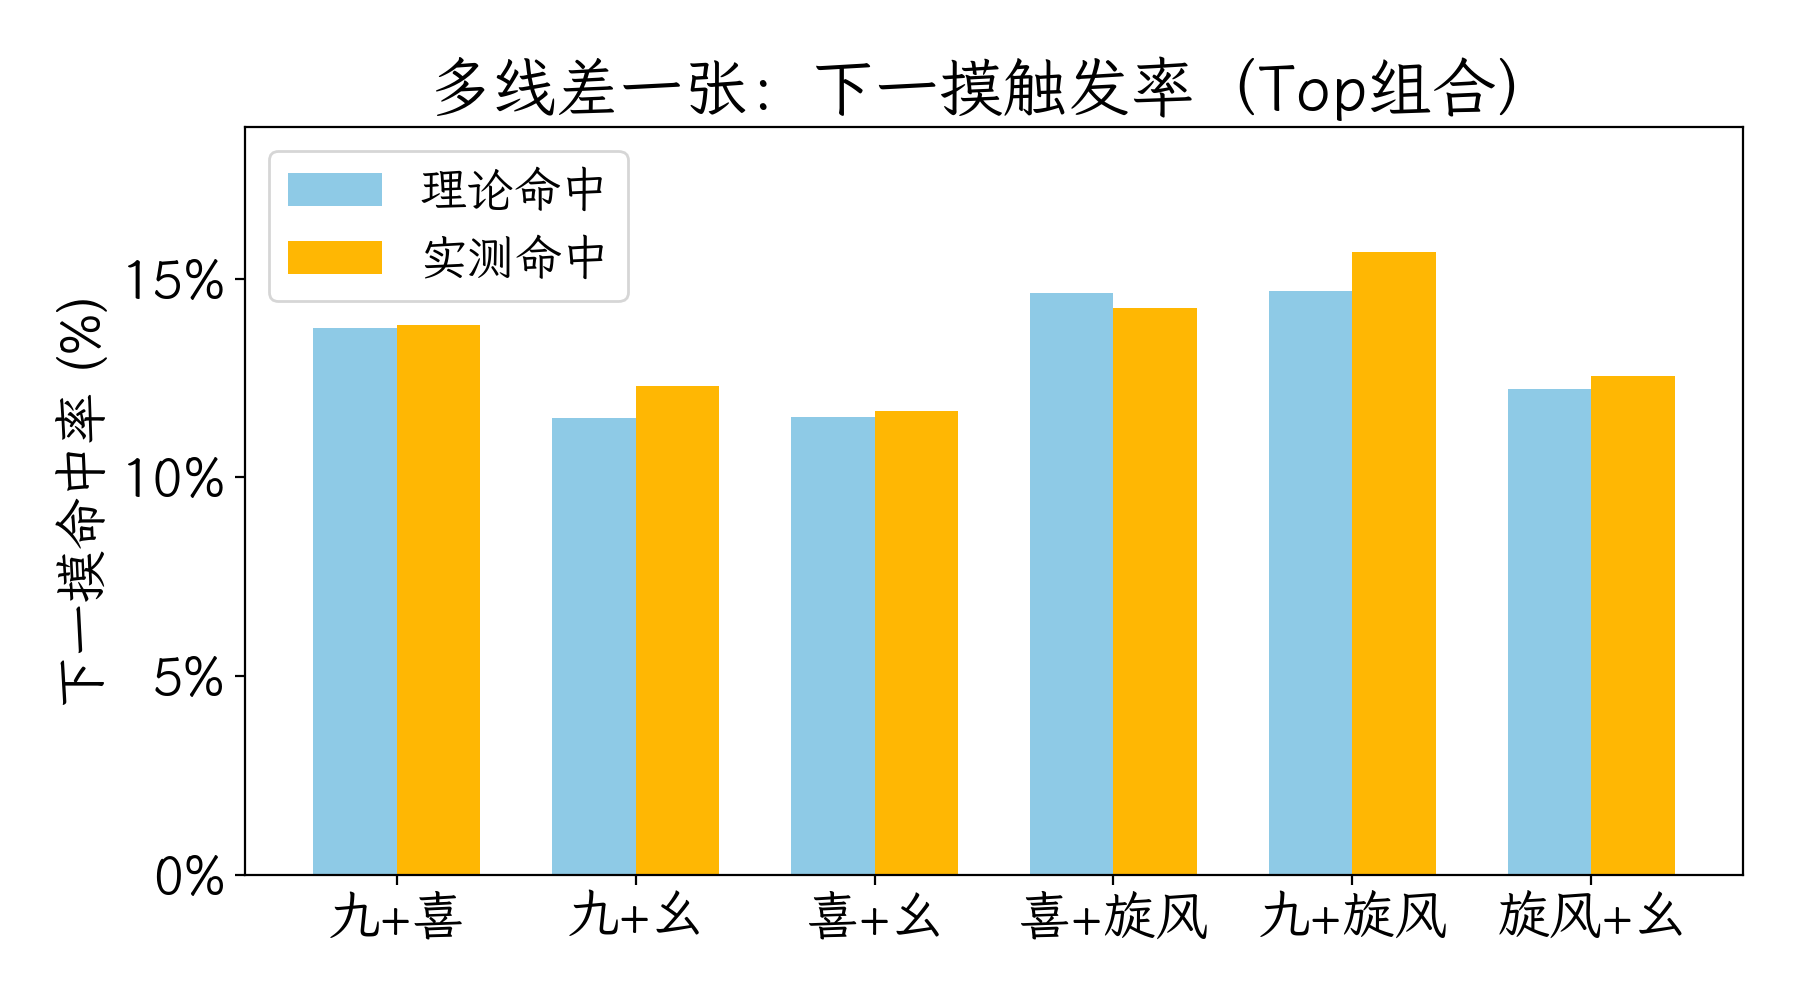
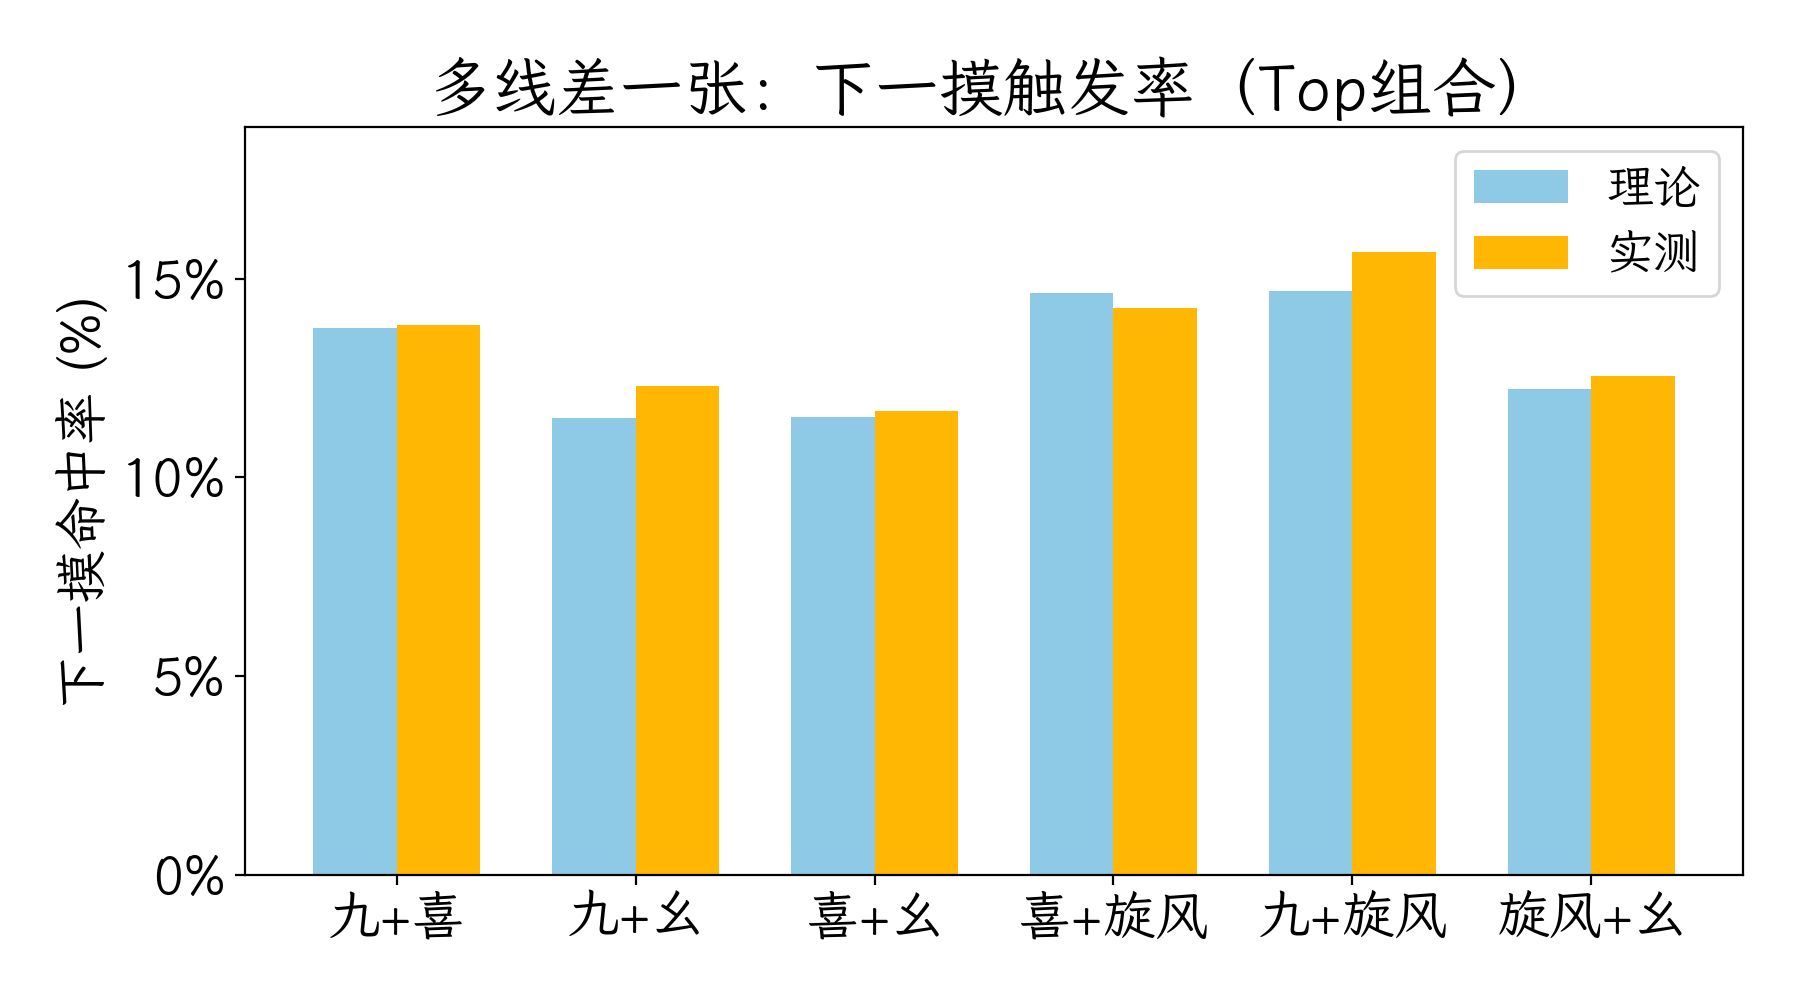
final

Changed region(s): [[0.1556, 0.155, 0.3422, 0.279], [0.8089, 0.155, 0.8711, 0.31], [0.9022, 0.155, 0.9644, 0.279]]

diff --git a/cc_majong/src/cc_majong/plotting.py b/cc_majong/src/cc_majong/plotting.py
@@ -267,8 +267,8 @@ def plot_combo_waits(combo_stats: Dict[str, Dict[str, float]], output_path: Path
     width = 0.35
 
     fig, ax = plt.subplots(figsize=(9, 5), dpi=FIGURE_DPI)
-    ax.bar(x - width / 2, theory, width, color="#8ecae6", label="理论命中")
-    ax.bar(x + width / 2, empirical, width, color="#ffb703", label="实测命中")
+    ax.bar(x - width / 2, theory, width, color="#8ecae6", label="理论")
+    ax.bar(x + width / 2, empirical, width, color="#ffb703", label="实测")
     ax.set_xticks(x)
     ax.set_xticklabels(labels)
     ax.set_ylabel("下一摸命中率 (%)")
